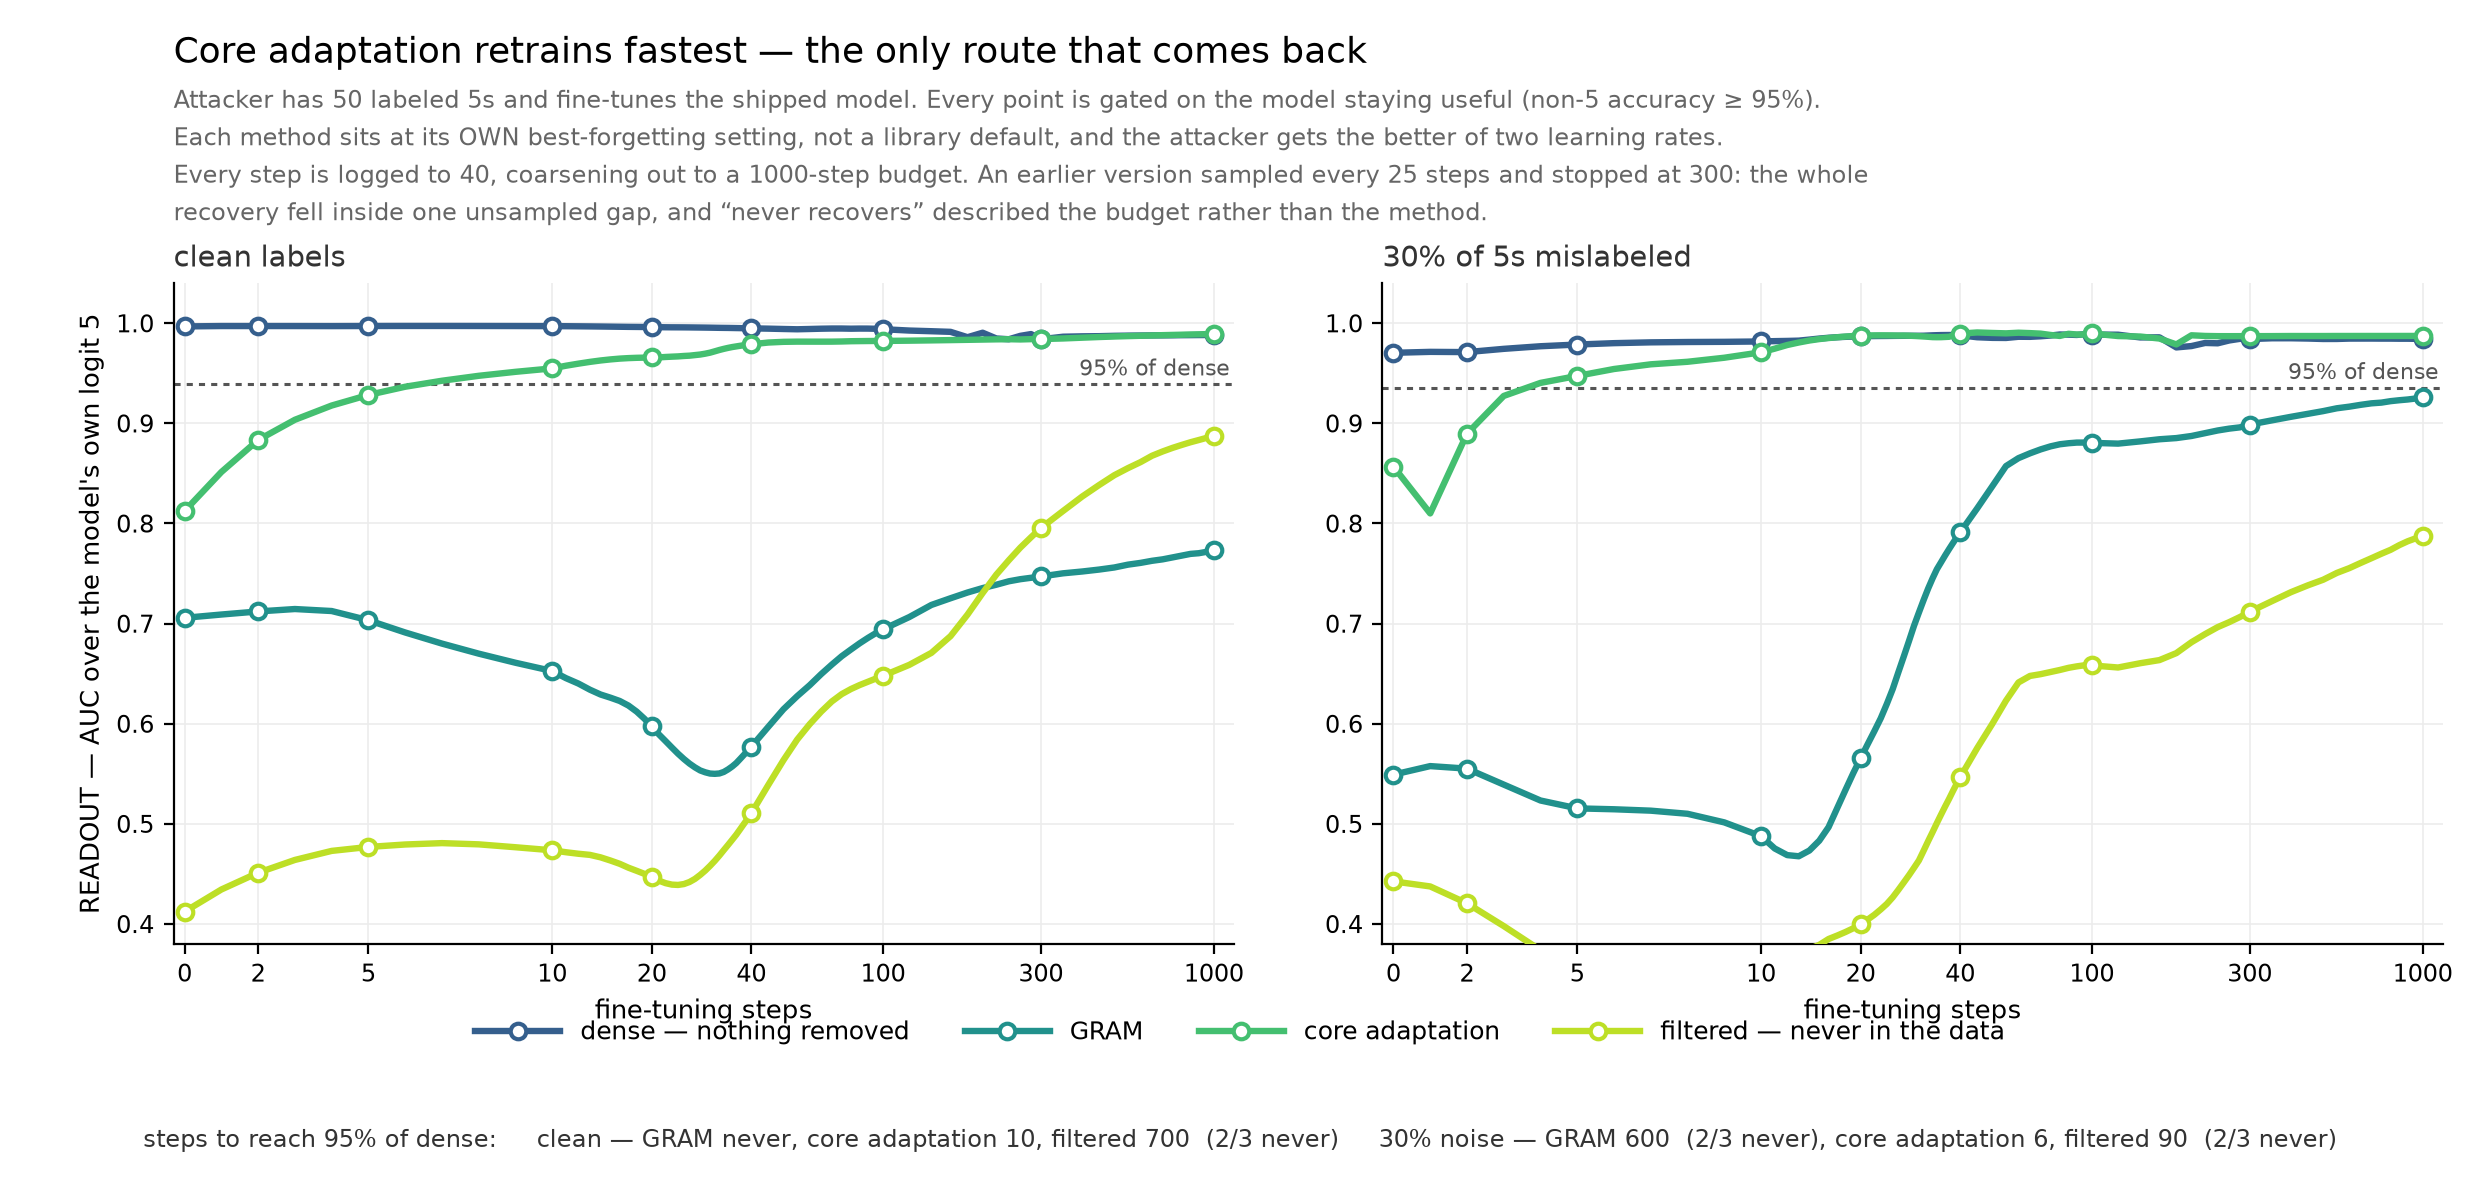
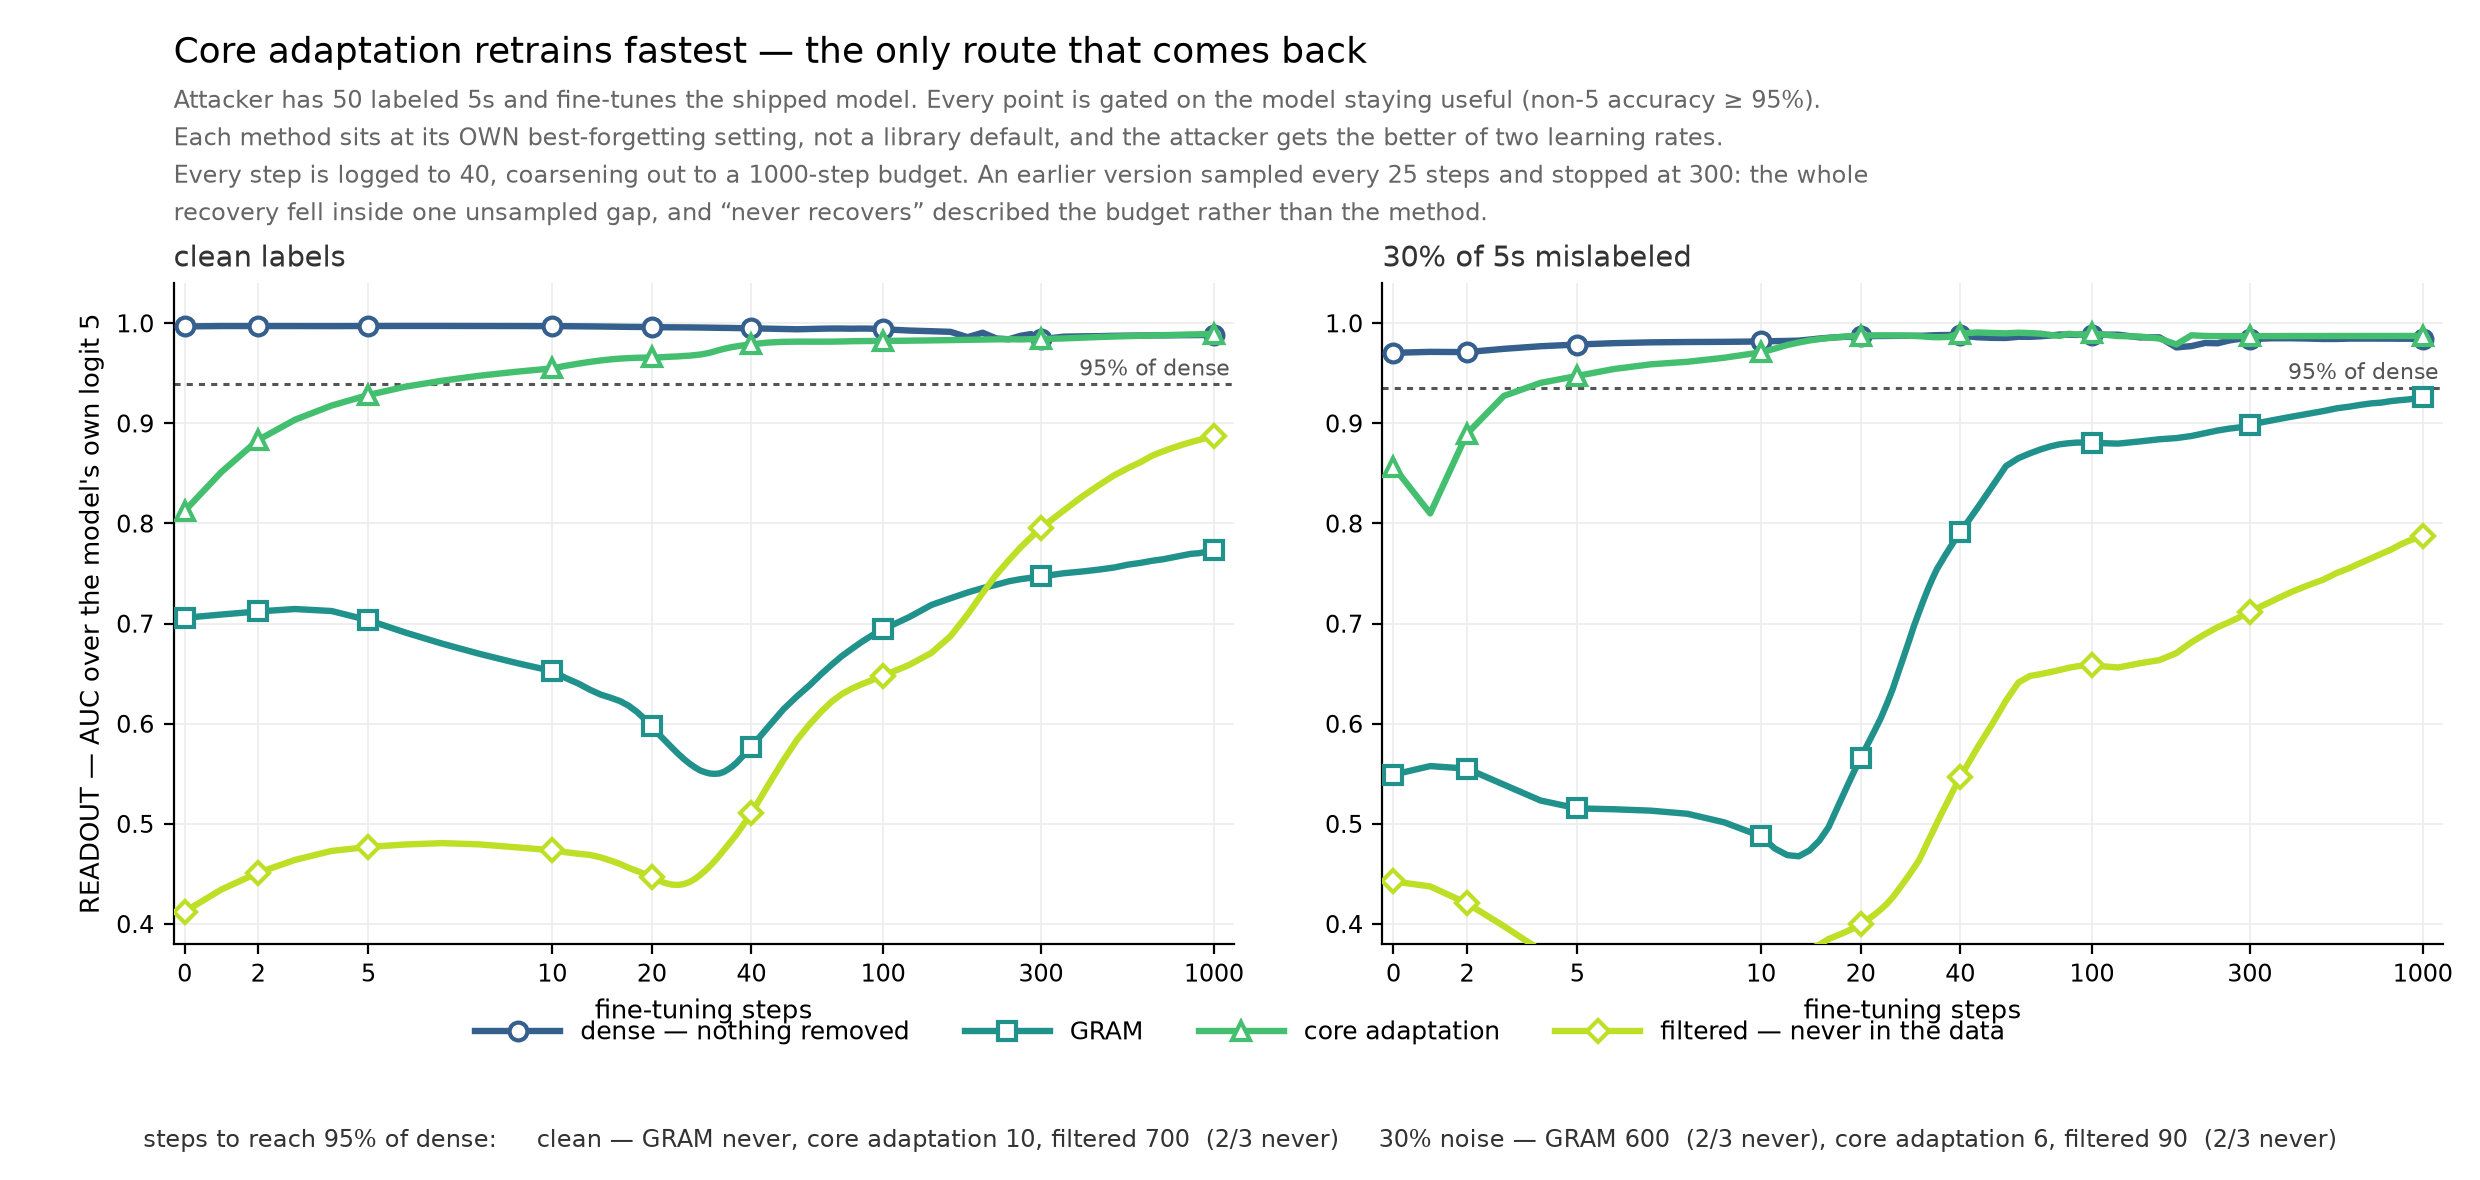
Give each series its own marker shape
Colour from viridis carries identity and survives greyscale on luminance alone, but it
does not help where two lines cross or overlap, and it is gone entirely in a photocopy
or a forced-colours view. Marker shape is a second channel that costs nothing and does
not reintroduce dashes:

  dense  circle   GRAM  square   core adaptation  triangle   filtered  diamond

figs_probe has six series and uses o / s / v / ^ / P / D across the same viridis span,
pairing each method's detached and reattached variants by neighbouring shapes.

Markers stay open on a white face and sit only at tick positions, so dense early
sampling does not turn into a smear. Verified in greyscale.

diff --git a/figs_steer.py b/figs_steer.py
@@ -29,9 +29,9 @@ D = json.load(open(f"{HERE}/results/instruments3.json"))
 # The matched-norm control stays dotted: that is a different MEASUREMENT, not a different arm.
 import figlang as _L
 SHOW = [("dense", "dense — nothing removed", _L.VIRIDIS["dense"], "-", "o"),
-        ("gram_OFF", "GRAM — module detached (ships)", _L.VIRIDIS["gram"], "-", "o"),
-        ("coreadapt_OFF", "core adapt — detached (ships)", _L.VIRIDIS["coreadapt"], "-", "o"),
-        ("filtered", "filtered — never in the data", _L.VIRIDIS["filtered"], "-", "o")]
+        ("gram_OFF", "GRAM — module detached (ships)", _L.VIRIDIS["gram"], "-", "s"),
+        ("coreadapt_OFF", "core adapt — detached (ships)", _L.VIRIDIS["coreadapt"], "-", "^"),
+        ("filtered", "filtered — never in the data", _L.VIRIDIS["filtered"], "-", "D")]
 INK, GREY = "#333333", "#9a9a92"
 alphas = sorted(D["steer"]["dense"]["self_dm"], key=float)
 xa = [float(a) for a in alphas]

diff --git a/figlang.py b/figlang.py
@@ -65,7 +65,11 @@ import matplotlib.colors as _mc
 _ORDER = ["dense", "gram", "coreadapt", "filtered"]
 _V = [0.3, 0.5, 0.7, 0.9]
 VIRIDIS = {k: _mc.to_hex(_cm.viridis(v)) for k, v in zip(_ORDER, _V)}
-STYLE = {k: dict(color=VIRIDIS[k], ls="-", marker="o", lw=2.3, ms=5.6) for k in _ORDER}
+# distinct marker shape per arm: a second channel that survives greyscale, photocopying
+# and overlapping lines, without reintroducing dashes
+_MARK = {"dense": "o", "gram": "s", "coreadapt": "^", "filtered": "D"}
+STYLE = {k: dict(color=VIRIDIS[k], ls="-", marker=_MARK[k], lw=2.3,
+                 ms=6.4 if _MARK[k] != "D" else 5.8) for k in _ORDER}
 LABEL = {
     "dense": "dense — nothing removed",
     "filtered": "filtered — never in the data",

diff --git a/figs_probe.py b/figs_probe.py
@@ -42,7 +42,8 @@ _LABS = ["dense — nothing removed",
          "filtered — never in the data"]
 _COLS = [_mc.to_hex(_cm.viridis(v)) for v in
          [0.3 + 0.6 * i / (len(_KEYS) - 1) for i in range(len(_KEYS))]]
-ROWS = [(k, l, c, "-", "o") for k, l, c in zip(_KEYS, _LABS, _COLS)]
+_MKS = ["o", "s", "v", "^", "P", "D"]   # one shape per series
+ROWS = [(k, l, c, "-", m) for k, l, c, m in zip(_KEYS, _LABS, _COLS, _MKS)]
 INK, GREY = "#333333", "#9a9a92"
 FLOOR = D["probe"]["dense"]["input"]
 
